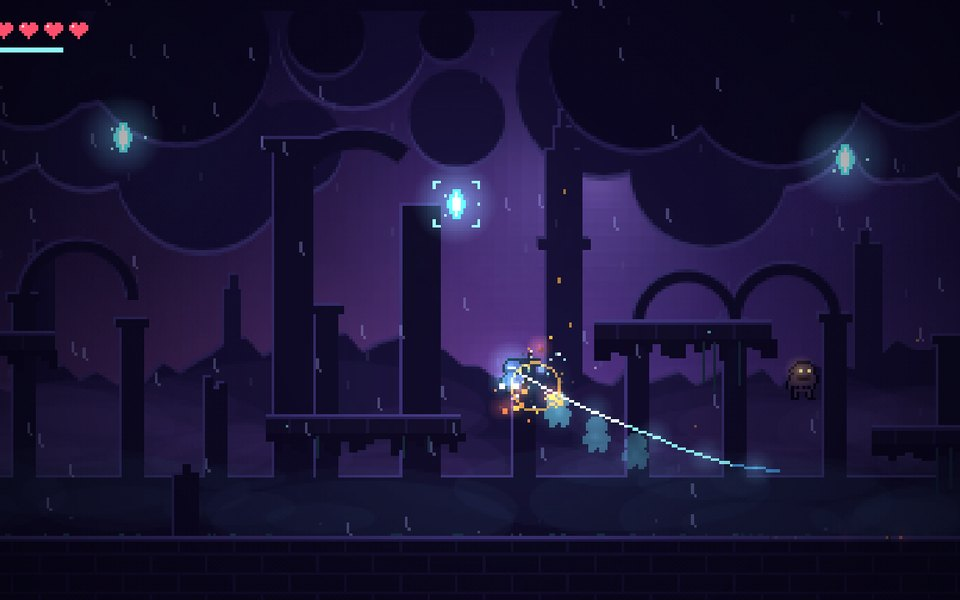
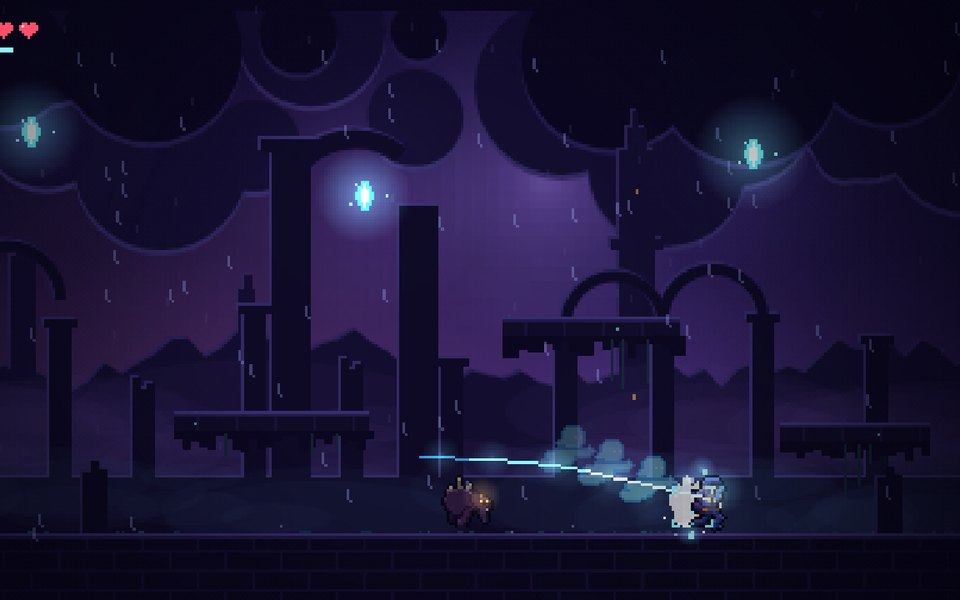
New hero and Husk sprites for Stormbound
Replaces the placeholder sprite strings with posed rigs that are shaded and
outlined automatically: a hooded storm runner (2 idle, 6 run, jump, fall,
zip and slash frames) and a hunched Husk with bone spikes, a toothed maw and
a 4-frame walk. Eyes render as emissive layers so they glow in the dark.
Refreshes the homepage preview image.

Claude-Session: https://claude.ai/code/session_01Hot4cZQkL3PumyWmc2jkCq

diff --git a/stormbound.html b/stormbound.html
@@ -274,20 +274,122 @@ function sprite(map, pal, mono) {
   return c;
 }
 function spriteSet(map, pal) { return { n: sprite(map, pal), w: sprite(map, pal, '#ffffff'), c: sprite(map, pal, '#6fe8ff') }; }
-const PT = ["....kkkk....", "...kcccck...", "..kcccccck..", "..kcceeeck..", "..kcdddddk..", "...kkccck...", "..kcccccck..", ".kccdcccdck.", ".kcdccccdck.", "..kccccccck."];
-const PPAL = { k: '#05040f', c: '#4048a0', d: '#252a66', e: '#b4fcff' };
-const PS = {
-  idle: spriteSet(PT.concat(["..kddkkddk..", "..kdk..kdk..", "..kdk..kdk..", ".kkk...kkk.."]), PPAL),
-  run1: spriteSet(PT.concat(["..kddkkddk..", ".kdk....kdk.", "kdk......kdk", "kk........kk"]), PPAL),
-  run2: spriteSet(PT.concat(["..kddkkddk..", "...kdkkdk...", "...kdkkdk...", "...kkkkkk..."]), PPAL),
-  jump: spriteSet(PT.concat(["..kdddddk...", "..kdk.kdk...", "...kk..kk...", "............"]), PPAL)
+/* ---------- sprites: posed rigs, auto-shaded and outlined ---------- */
+const OUTLINE = '#05040f';
+function Rig(w, h) { this.w = w; this.h = h; this.g = new Uint8Array(w * h); }
+Rig.prototype.set = function (x, y, id) { x = Math.floor(x); y = Math.floor(y); if (x >= 0 && y >= 0 && x < this.w && y < this.h) this.g[y * this.w + x] = id; };
+Rig.prototype.get = function (x, y) { return (x < 0 || y < 0 || x >= this.w || y >= this.h) ? 0 : this.g[y * this.w + x]; };
+Rig.prototype.ell = function (cx, cy, rx, ry, id) { for (let y = 0; y < this.h; y++) for (let x = 0; x < this.w; x++) { const dx = (x + .5 - cx) / rx, dy = (y + .5 - cy) / ry; if (dx * dx + dy * dy <= 1) this.set(x, y, id); } };
+Rig.prototype.disc = function (cx, cy, r, id) { this.ell(cx, cy, r, r, id); };
+Rig.prototype.seg = function (x1, y1, x2, y2, r, id) { const n = Math.ceil(Math.hypot(x2 - x1, y2 - y1) * 4) + 1; for (let i = 0; i <= n; i++) this.disc(lerp(x1, x2, i / n), lerp(y1, y2, i / n), r, id); };
+Rig.prototype.poly = function (pts, id) {
+  for (let y = 0; y < this.h; y++) for (let x = 0; x < this.w; x++) {
+    const px = x + .5, py = y + .5; let ins = false;
+    for (let i = 0, j = pts.length - 1; i < pts.length; j = i++) { const [xi, yi] = pts[i], [xj, yj] = pts[j]; if ((yi > py) !== (yj > py) && px < (xj - xi) * (py - yi) / (yj - yi) + xi) ins = !ins; }
+    if (ins) this.set(x, y, id);
+  }
 };
-const HT = ["...kkkkk....", "..kgggggk...", ".kgggggggk..", ".kgoggogggk.", ".kgggggggk..", "kgghhhhhggk.", "kgghkkkhggk.", "kggggggggggk", ".kgggggggggk", ".kgk.kgk.kgk"];
-const HPAL = { k: '#05040f', g: '#5a3d5e', h: '#2c1d34', o: '#ffb347' };
-const HS = [
-  spriteSet(HT.concat(["..kggggggk..", "..kgk..kgk..", "..kgk..kgk..", ".kkk...kkk.."]), HPAL),
-  spriteSet(HT.concat(["..kggggggk..", "..kgk.kgk...", "...kgkgk....", "...kkkkk...."]), HPAL)
-];
+Rig.prototype.limb = function (x, y, a1, l1, bend, l2, r, id) {
+  const A = a1 * Math.PI / 180, B = (a1 + bend) * Math.PI / 180;
+  const kx = x + Math.cos(A) * l1, ky = y + Math.sin(A) * l1, ex = kx + Math.cos(B) * l2, ey = ky + Math.sin(B) * l2;
+  this.seg(x, y, kx, ky, r, id); this.seg(kx, ky, ex, ey, r, id); return [ex, ey];
+};
+/* REG: id -> { p: [dark, mid, light] | c: flat colour, z, emit } */
+function bake(rig, REG) {
+  const { w, h } = rig, out = {};
+  const [cN, xN] = mk(w, h), [cW, xW] = mk(w, h), [cC, xC] = mk(w, h), [cE, xE] = mk(w, h);
+  for (let y = 0; y < h; y++) for (let x = 0; x < w; x++) {
+    const id = rig.get(x, y);
+    if (!id) {
+      if (rig.get(x - 1, y) || rig.get(x + 1, y) || rig.get(x, y - 1) || rig.get(x, y + 1)) { xN.fillStyle = OUTLINE; xN.fillRect(x, y, 1, 1); xW.fillStyle = '#ffffff'; xW.fillRect(x, y, 1, 1); xC.fillStyle = '#3fb6e8'; xC.fillRect(x, y, 1, 1); }
+      continue;
+    }
+    const R0 = REG[id]; let col;
+    if (R0.c) col = R0.c;
+    else {
+      const nb = [rig.get(x, y - 1), rig.get(x - 1, y), rig.get(x, y + 1), rig.get(x + 1, y)];
+      const shadowed = nb.some(n => n && n !== id && REG[n].z > R0.z && !REG[n].emit);
+      if (shadowed) col = R0.p[0];
+      else if (nb[0] === 0 || (nb[1] === 0 && nb[0] !== id)) col = R0.p[2];
+      else if (nb[2] === 0 || nb[3] === 0) col = R0.p[0];
+      else col = R0.p[1];
+    }
+    xN.fillStyle = col; xN.fillRect(x, y, 1, 1);
+    xW.fillStyle = '#ffffff'; xW.fillRect(x, y, 1, 1);
+    xC.fillStyle = R0.emit ? '#ffffff' : '#8ff7ff'; xC.fillRect(x, y, 1, 1);
+    if (R0.emit) { xE.fillStyle = R0.c; xE.fillRect(x, y, 1, 1); }
+  }
+  return { n: cN, w: cW, c: cC, e: cE };
+}
+const HREG = {
+  1: { p: ['#1a1446', '#2c2272', '#43369e'], z: 1 },
+  2: { p: ['#141a48', '#232d70', '#33429a'], z: 2 },
+  3: { p: ['#18205a', '#2a3684', '#3d4fb0'], z: 3 },
+  4: { p: ['#1f2766', '#3647a6', '#5470e0'], z: 4 },
+  5: { p: ['#6b3416', '#c06a28', '#ffb347'], z: 5 },
+  6: { p: ['#26307a', '#4458c4', '#7b95ff'], z: 6 },
+  7: { c: '#0a0820', z: 7 },
+  8: { c: '#c8fdff', z: 8, emit: true },
+  9: { p: ['#1c2462', '#2f3d8e', '#4a5fbe'], z: 9 },
+  10: { p: ['#26307a', '#4458c4', '#7088f4'], z: 10 }
+};
+function heroRig(o) {
+  const R = new Rig(22, 24), L = o.lean || 0, bt = o.bt || 0, hy = o.hy ?? 14.6;
+  const hx = 10, sy = 10.2 + bt, cl = o.cloak ?? .3;
+  R.poly([[hx - 2.2 + L, sy - .5], [hx - .5 + L, sy], [hx - .6, hy + 1.2], [hx - 3.2 - cl * 3.2, hy + 2.2 - cl * 2.4], [hx - 4.2 - cl * 2.4, sy + 2 - cl]], 1);
+  const back = (s, a, b) => { const e = R.limb(hx + s, hy, a, 3.8, b, 3.8, 1.1, 2); R.seg(e[0], e[1], e[0] + 1.6, e[1] + .2, .8, 2); };
+  back(-.6, o.lb[0], o.lb[1]);
+  R.limb(hx - 1.6 + L, sy + .6, o.ab[0], 2.7, o.ab[1], 2.5, .95, 3);
+  R.poly([[hx - 2.6 + L, sy - .4], [hx + 2.6 + L, sy - .4], [hx + 2.2, hy + .6], [hx - 2.4, hy + .6]], 4);
+  R.seg(hx - 2.3 + L * .3, hy - .6, hx + 2.3 + L * .3, hy - .6, .55, 5);
+  const cx = hx + .6 + L, cyy = 5.6 + bt;
+  R.poly([[cx - 2.6, cyy - 2.4], [cx - 5.6, cyy + 1.6 + cl], [cx - 1.6, cyy + 1.8]], 6);
+  R.disc(cx, cyy, 3.9, 6);
+  for (let y = 0; y < R.h; y++) for (let x = 0; x < R.w; x++) if (R.get(x, y) === 6 && x + .5 > cx - .2 && y + .5 > cyy - 1.4 && y + .5 < cyy + 2.2 && x + .5 < cx + 3.6) R.set(x, y, 7);
+  R.set(cx + 1.2, cyy + .2, 8); R.set(cx + 2.9, cyy + .2, 8);
+  const fe = R.limb(hx + .6, hy, o.lf[0], 3.8, o.lf[1], 3.8, 1.1, 9); R.seg(fe[0], fe[1], fe[0] + 1.7, fe[1] + .2, .8, 9);
+  const he = R.limb(hx + 1.6 + L, sy + .6, o.af[0], 2.7, o.af[1], 2.5, 1, 10); R.disc(he[0], he[1], 1.15, 10);
+  return bake(R, HREG);
+}
+const PS = { idle: [], run: [] };
+PS.idle.push(heroRig({ lb: [98, 0], lf: [82, 0], ab: [102, -12], af: [80, 14], bt: 0, cloak: .25 }));
+PS.idle.push(heroRig({ lb: [98, 0], lf: [82, 0], ab: [104, -12], af: [82, 14], bt: 1, cloak: .35 }));
+for (let i = 0; i < 6; i++) {
+  const p = i / 6 * Math.PI * 2, s = Math.sin(p);
+  const leg = k => [90 - 46 * k, k < 0 ? 75 * -k : 12 * k];
+  PS.run.push(heroRig({ lf: leg(s), lb: leg(-s), af: [90 + 55 * s, -55], ab: [90 - 55 * s, -55], bt: Math.abs(s) > .7 ? 1 : 0, lean: 1, cloak: .75 + .25 * Math.cos(p), hy: 14.6 - (Math.abs(s) < .5 ? .8 : 0) }));
+}
+PS.jump = heroRig({ lf: [40, 85], lb: [110, 60], af: [-55, -25], ab: [215, 10], cloak: .9, hy: 14 });
+PS.fall = heroRig({ lf: [78, 18], lb: [108, 12], af: [-25, -10], ab: [200, 0], cloak: .15 });
+PS.zip = heroRig({ lf: [150, 25], lb: [168, 10], af: [-4, 0], ab: [168, 0], lean: 2, cloak: 1, hy: 14 });
+PS.slash = heroRig({ lf: [62, 22], lb: [118, 0], af: [-18, 8], ab: [150, 10], lean: 1, cloak: .6 });
+
+const KREG = {
+  1: { p: ['#1a0f20', '#2e1b38', '#432a50'], z: 1 },
+  2: { p: ['#1e1124', '#2e1b38', '#432a50'], z: 2 },
+  3: { p: ['#9a8468', '#cdb894', '#efe3c6'], z: 3 },
+  4: { p: ['#24152c', '#462a52', '#6a4476'], z: 4 },
+  5: { p: ['#2a182f', '#4e2f5a', '#73497f'], z: 5 },
+  6: { c: '#0d0610', z: 6 },
+  7: { c: '#e8dcc0', z: 7 },
+  8: { c: '#ffb347', z: 8, emit: true },
+  9: { p: ['#2c1a34', '#53335f', '#7a5086'], z: 9 }
+};
+function huskRig(ph, low) {
+  const R = new Rig(24, 20), s = Math.sin(ph), b = low ? 1 : 0;
+  R.limb(9, 13 + b, 90 + 28 * s, 2.8, 10, 2.6, 1.2, 2);
+  R.limb(10, 9 + b, 110 - 18 * s, 4, -30, 4, 1.1, 1);
+  for (const [x, y, hgt] of [[6, 6.5, 3.4], [9.5, 4.8, 4], [13, 5.2, 3]]) R.poly([[x - 1.6, y + 2 + b], [x + .2, y - hgt + b], [x + 1.6, y + 2 + b]], 3);
+  R.ell(10.5, 9.5 + b, 6.6, 4.6, 4);
+  R.limb(13, 13 + b, 90 - 28 * s, 2.8, 10, 2.6, 1.3, 5);
+  R.ell(17.2, 10.6 + b, 3.6, 3.2, 4);
+  for (let x = 16; x <= 20; x++) R.set(x, 12 + b, 6);
+  R.set(17, 12 + b, 7); R.set(19, 12 + b, 7); R.set(18, 13 + b, 6); R.set(19, 13 + b, 6);
+  R.set(17, 9 + b, 8); R.set(19, 9 + b, 8);
+  const he = R.limb(15, 8.5 + b, 70 + 20 * s, 4, 25, 4.2, 1.15, 9); R.disc(he[0], he[1], 1.3, 9);
+  return bake(R, KREG);
+}
+const HS = [0, 1, 2, 3].map(i => huskRig(i / 4 * Math.PI * 2, i % 2 === 1));
 const HEART = sprite([".rr.rr.", "rwrrrrr", "rrrrrrr", ".rrrrr.", "..rrr..", "...r..."], { r: '#ff4f6d', w: '#ffd0d8' });
 const HEART0 = sprite([".rr.rr.", "rrrrrrr", "rrrrrrr", ".rrrrr.", "..rrr..", "...r..."], { r: '#2f2658' });
 
@@ -799,7 +901,7 @@ function strike(int = 1) {
 const hitstop = t => { hs = Math.max(hs, t); };
 
 /* ---------- gameplay ---------- */
-const cy = e => e.type === 'husk' ? e.y - 7 : e.y;
+const cy = e => e.type === 'husk' ? e.y - 8 : e.y;
 function landPhys(o, prevY, drop) {
   o.ground = false;
   if (o.y >= FLOOR) { o.y = FLOOR; if (o.vy > 0) o.vy = 0; o.ground = true; return; }
@@ -1020,7 +1122,7 @@ function step(dt) {
   if (state === 'play') { updatePlayer(dt); updateEnemies(dt); updateOrbs(dt); updateFlow(dt); }
   else if (state === 'dead') { deathT += dt; updateEnemies(dt); updateOrbs(dt); }
   for (const a of ANCH) { a.cd = Math.max(0, a.cd - dt); a.y = a.by + Math.sin(time * 1.6 + a.ph) * 2; }
-  const neckX = P.x - P.face * 2, neckY = P.y - 9;
+  const neckX = P.x - P.face * 2, neckY = P.y - 15;
   scarf[0].x = neckX; scarf[0].y = neckY;
   for (let i = 1; i < scarf.length; i++) {
     const p = scarf[i], q = scarf[i - 1];
@@ -1059,11 +1161,12 @@ function spr(img, x, y, face, ox, oy) {
   else ctx.drawImage(img, x - ox, y - oy);
 }
 function playerFrame() {
-  if (P.state === 'zip' || !P.ground) return PS.jump;
-  if (Math.abs(P.vx) > 10) return Math.floor(P.anim) % 2 ? PS.run1 : PS.run2;
-  return PS.idle;
+  if (P.state === 'zip') return PS.zip;
+  if (P.slashT > 0) return PS.slash;
+  if (!P.ground) return P.vy < 40 ? PS.jump : PS.fall;
+  if (Math.abs(P.vx) > 10) return PS.run[Math.floor(P.anim) % 6];
+  return PS.idle[Math.floor(time * 2.2) % 2];
 }
-function eyePx(x, face, col) { return face > 0 ? x - 6 + col : x + 6 - 1 - col; }
 
 function drawWisp(c, e) {
   const x = Math.round(e.x), y = Math.round(e.y), tel = e.shoot < .5 && e.spawn <= 0;
@@ -1110,15 +1213,15 @@ function draw() {
   ctx.drawImage(fg, 0, 0);
   for (const e of enemies) {
     if (e.spawn > 0 || e.type !== 'husk') continue;
-    const set = HS[Math.floor(e.anim) % 2];
-    spr(e.flash > 0 ? set.w : set.n, e.x, e.y, e.face, 6, 14);
+    const set = HS[Math.floor(e.anim) % 4];
+    spr(e.flash > 0 ? set.w : set.n, e.x, e.y, e.face, 11, 20);
   }
   for (const p of parts) if (!p.em) { ctx.globalAlpha = clamp(p.life / p.max, 0, 1); ctx.fillStyle = p.col; ctx.fillRect(Math.round(p.x), Math.round(p.y), p.sz, p.sz); }
   ctx.globalAlpha = 1;
   if (state !== 'dead' || deathT < .05) {
-    const f = playerFrame(), bob = (f === PS.idle && Math.floor(time * 2.2) % 2) ? 1 : 0;
+    const f = playerFrame();
     const blink = P.inv > 0 && P.state !== 'zip' && Math.floor(time * 18) % 2;
-    if (!blink) spr(f.n, P.x, P.y + bob, P.face, 6, 14);
+    if (!blink) spr(f.n, P.x, P.y, P.face, 11, 24);
   }
 
   // darkness
@@ -1149,14 +1252,13 @@ function draw() {
       continue;
     }
     if (e.type === 'wisp') drawWisp(ctx, e);
-    else { ctx.fillStyle = '#ffd27a'; const ey = Math.round(e.y) - 14 + 3; ctx.fillRect(eyePx(Math.round(e.x), e.face, 3), ey, 1, 1); ctx.fillRect(eyePx(Math.round(e.x), e.face, 6), ey, 1, 1); }
+    else spr(HS[Math.floor(e.anim) % 4].e, e.x, e.y, e.face, 11, 20);
   }
-  for (const a of after) { ctx.globalAlpha = a.life / .26 * .7; spr(PS.jump.c, a.x, a.y, a.face, 6, 14); }
+  for (const a of after) { ctx.globalAlpha = a.life / .26 * .7; spr(PS.zip.c, a.x, a.y, a.face, 11, 24); }
   ctx.globalAlpha = 1;
   if (state !== 'dead' || deathT < .05) {
     for (let i = 0; i < scarf.length - 1; i++) pline(ctx, [[scarf[i].x, scarf[i].y], [scarf[i + 1].x, scarf[i + 1].y]], i < 3 ? '#e6feff' : i < 7 ? '#8ff7ff' : '#3f8fd0');
-    ctx.fillStyle = '#e6feff'; const vy = Math.round(P.y) - 11 + ((playerFrame() === PS.idle && Math.floor(time * 2.2) % 2) ? 1 : 0);
-    for (const col of [5, 6, 7]) ctx.fillRect(eyePx(Math.round(P.x), P.face, col), vy, 1, 1);
+    if (!(P.inv > 0 && P.state !== 'zip' && Math.floor(time * 18) % 2)) spr(playerFrame().e, P.x, P.y, P.face, 11, 24);
     if (P.zt && P.state === 'zip') {
       const tx = P.zt.x, ty = P.zt.kind === 'anchor' ? P.zt.y : cy(P.zt), d = Math.hypot(tx - P.x, ty - P.y);
       const pts = jag(P.x, P.y - 8, tx, ty, Math.max(3, Math.round(d / 10)), 6);
@@ -1189,14 +1291,14 @@ function draw() {
   // glow pass
   ctx.globalCompositeOperation = 'lighter';
   if (state !== 'dead' || deathT < .05) {
-    glow(ctx, GL.cyan, P.x + P.face * 1, P.y - 11, 9, .5);
+    glow(ctx, GL.cyan, P.x + P.face * 3, P.y - 18, 9, .5);
     for (let i = 2; i < scarf.length; i += 2) glow(ctx, GL.cyan, scarf[i].x, scarf[i].y, 7, .28);
   }
   for (const a of ANCH) glow(ctx, GL.cyan, a.x, a.y, a.cd > 0 ? 8 : 18 + Math.sin(time * 4 + a.ph) * 3, a.cd > 0 ? .2 : .65);
   for (const e of enemies) {
     if (e.spawn > 0) { glow(ctx, GL.violet, e.x, cy(e), 26, .8); continue; }
     if (e.type === 'wisp') glow(ctx, GL.ember, e.x, e.y, e.shoot < .5 ? 26 : 18, .8);
-    else glow(ctx, GL.gold, e.x + e.face * 1, e.y - 11, 6, .45);
+    else glow(ctx, GL.gold, e.x + e.face * 7, e.y - 11, 7, .5);
   }
   for (const o of orbs) glow(ctx, o.friendly ? GL.cyan : GL.ember, o.x, o.y, 12, .9);
   for (const p of parts) if (p.em && p.sz > 1) glow(ctx, p.col === '#8ff7ff' || p.col === '#ffffff' ? GL.cyan : GL.ember, p.x, p.y, 5, clamp(p.life / p.max, 0, 1) * .6);
